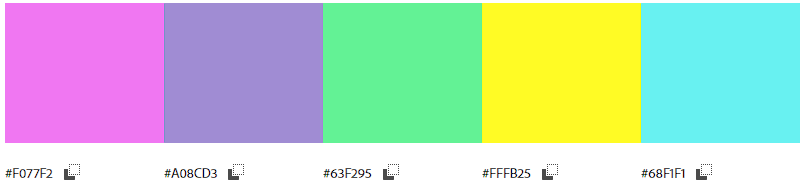
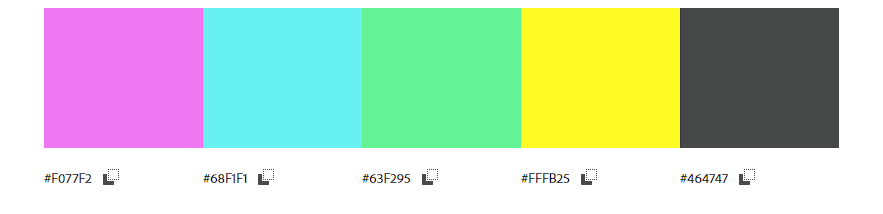
Replace color palette image in readme

diff --git a/assets/css/styles.css b/assets/css/styles.css
@@ -9,14 +9,15 @@
 
 /* Sett up background color on page and apply general text style */
 body {
-    background-color: #a08cd3;
+    background-color: #464747;
     font-family: 'Luckiest Guy', sans-serif;
     letter-spacing: 3px;
     color: #fffb25;
     text-align: center;
     min-height: 95vh;
     max-width: 1000px;
-    margin: 0 auto;    
+    margin: 0 auto;   
+    text-shadow: 2px 2px black; 
 }
 
 /* Style for the title */
@@ -24,20 +25,14 @@ header {
     margin: 2rem;
 }
 
-header>h1 {
+header > h1 {
     font-size: 200%;
-}
-
-h1,
-h2 {
-    text-shadow: 2px 2px rgb(250, 72, 235);
 }
 
 /* Rules area */
 .rules {
     margin: 1.5rem;
     line-height: 3rem;
-
 }
 
 /* Add flex on play area so that the buttons stand on the same line
@@ -120,7 +115,7 @@ footer {
 
 footer>a {
     font-size: 30px;
-    color: black;
+    color: white;
     margin: 1rem;
 }
 

diff --git a/index.html b/index.html
@@ -5,6 +5,7 @@
     <meta charset="UTF-8">
     <meta http-equiv="X-UA-Compatible" content="IE=edge">
     <meta name="viewport" content="width=device-width, initial-scale=1.0">
+    <meta name="description" content="Rock Paper Scissors Game">
     <link rel="stylesheet" href="assets/css/styles.css">  
     <title>Rock Paper Scissors Game</title>
 </head>

diff --git a/README.md b/README.md
@@ -49,7 +49,7 @@ Visit the deployed site: [Rock Paper Scissors Game](https://natasamiric.github.i
 
 ![](docs/colorpalette.png)
 
-The chosen colors are vibrant and bright to add a positive character and playfulness to the website.
+The chosen colors for the buttons are vibrant and bright to add a positive character and playfulness to the website. The dark grey background color provides good contrast. 
 
 ### Typography
 
@@ -66,7 +66,7 @@ The chosen colors are vibrant and bright to add a positive character and playful
  ![Desktop and mobile wireframe](docs/wireframes/wireframes.png)
 
  ## Features
- 
+
 ### Existing features
 
 **Header**
